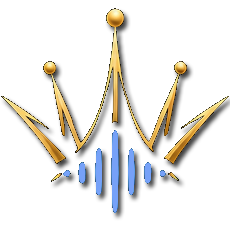
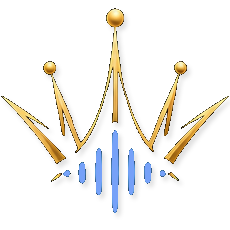
Add files via upload

diff --git a/index.html b/index.html
@@ -79,6 +79,9 @@
             --text: #e0e0e0;
             --text-muted: #888;
             --font-main: 'Inter', -apple-system, BlinkMacSystemFont, sans-serif;
+            /* ширина короны. От неё считается отрицательный отступ до надписи:
+               у картинки 3.91 % прозрачного края снизу, и он пропорционален ширине */
+            --logo-w: min(150px, 34vw);
         }
 
         * { box-sizing: border-box; margin: 0; padding: 0; outline: none; }
@@ -110,8 +113,20 @@
         .app-container {
             width: 100%;
             max-width: 600px;
-            padding: 0.4rem 2rem 0.6rem;
+            /* сверху 40 px: из них 32 съедает сдвиг top, остальное — воздух,
+               чтобы при заполненном экране корона не прилипала к верху окна */
+            padding: 2.5rem 2rem 0.3rem;
             text-align: center;
+            /* колонка во всю высоту экрана: окно волны забирает всё свободное
+               место и больше не «сплюснуто». min-height, а не height — на низких
+               экранах блок растёт по содержимому и страница прокручивается,
+               а не прячет низ волны под подписью */
+            display: flex;
+            flex-direction: column;
+            justify-content: center;
+            justify-content: safe center;
+            min-height: calc(100vh - 4.4rem);
+            min-height: calc(100dvh - 4.4rem);
             /* подъём всей студии над нижней подписью.
                Именно top, а не transform: дробный transform размывает
                1px-рамки (пунктир зоны загрузки), top рисуется по пикселям. */
@@ -120,6 +135,11 @@
             z-index: 1;
             transition: opacity 0.42s ease, transform 0.6s cubic-bezier(.2, .8, .2, 1), filter 0.42s ease;
         }
+
+        /* все блоки студии держат свой размер; свободное место уходит
+           внутрь панели — в окно визуализации (гониометр), а НЕ в нижнюю
+           дорожку с playhead, та остаётся исходной высоты */
+        .app-container > * { flex-shrink: 0; }
 
         /* когда открыт экран благодарности — студия уходит в тень */
         body.grat-open .app-container {
@@ -145,15 +165,19 @@
 
         .brand-logo {
             display: block;
-            width: min(150px, 34vw);   /* ← размер логотипа: первое число — предел в px, второе — доля ширины окна на узких экранах */
+            width: var(--logo-w);      /* ← размер логотипа задан в :root, переменной --logo-w */
             height: auto;
-            margin: 0 auto 0.1rem;   /* зазор до надписи INVOISE */
+            /* корона стоит на месте, надпись чуть ниже: отрицательный отступ
+               съедает прозрачный край картинки (3.91 % высоты) и оставляет
+               маленький видимый зазор до INVOISE */
+            margin: 0 auto calc(1px - 0.0391 * var(--logo-w));
         }
 
         .subtitle {
             color: var(--text-muted);
             font-size: 0.68rem;
-            margin-bottom: 1.45rem;
+            /* зазор до окна ниже: одинаковый на всех трёх экранах */
+            margin-bottom: 2.5rem;
             letter-spacing: 2px;
         }
 
@@ -187,7 +211,7 @@
 
         /* Processor panel */
         .panel {
-            margin-top: 1.35rem;
+            margin-top: 0;              /* зазор задаёт .subtitle — один на все экраны */
             background: var(--surface);
             border: 1px solid var(--border);
             border-radius: 12px;
@@ -195,7 +219,9 @@
             text-align: left;
             display: none;
         }
-        .panel.active { display: block; }
+        /* панель растёт по высоте, чтобы отдать свободное место окну
+           визуализации (гониометру) — именно оно «живёт» при проигрывании */
+        .panel.active { display: flex; flex-direction: column; flex: 1 1 auto; }
 
         .row { margin-bottom: 0.62rem; }
         .row:last-child { margin-bottom: 0; }
@@ -365,6 +391,9 @@
             margin-top: 0.9rem;
             padding-top: 0.8rem;
             border-top: 1px solid var(--border);
+            /* растёт вместе с панелью и отдаёт высоту гониометру */
+            flex: 1 1 auto;
+            min-height: 90px;
         }
 
         .scope-wrap {
@@ -372,7 +401,8 @@
             background: #0d0d0d;
             border: 1px solid #1e1e1e;
             border-radius: 8px;
-            height: 90px;
+            height: auto;
+            min-height: 90px;
             position: relative;
             overflow: hidden;
         }
@@ -480,6 +510,8 @@
         /* Visualizer & Progress */
         .visualizer-container {
             margin-top: 1rem;
+            /* нижняя дорожка: исходный фиксированный размер, не тянется */
+            flex: 0 0 auto;
             height: 86px;
             width: 100%;
             background: radial-gradient(120% 140% at 50% 0%, #16140f 0%, #0b0b0b 60%, #080808 100%);
@@ -686,15 +718,16 @@
         .grat-brand {
             position: relative;
             text-align: center;
-            margin-bottom: 1.45rem;
+            /* тот же зазор до карточки, что и на студии */
+            margin-bottom: 2.5rem;
         }
         /* Шапка благодарности = шапка студии, один в один:
            те же 150 px, тот же зазор до надписи и те же кегли. */
         .grat-logo {
-            width: min(150px, 34vw);
+            width: var(--logo-w);
             height: auto;
             display: block;
-            margin: 0 auto 0.1rem;
+            margin: 0 auto calc(1px - 0.0391 * var(--logo-w));
             opacity: 0;
             transform: translateY(-12px) scale(0.88);
             filter: drop-shadow(0 0 22px rgba(212, 175, 55, 0.3));
@@ -932,28 +965,28 @@
         /* средние экраны (761–840 px — самый частый ноутбук 1366×768):
            логотип крупный, но всё влезает в один экран без скролла */
         @media (min-height: 761px) and (max-height: 879px) {
-            .brand-logo { width: min(132px, 32vw); }
-            .grat-logo { width: min(132px, 32vw); }
-            .subtitle { margin-bottom: 0.95rem; }
-            .panel { margin-top: 0.9rem; }
+            :root { --logo-w: min(128px, 31vw); }
+            .subtitle { margin-bottom: 1.7rem; }
+            .panel { margin-top: 0; }
             .controls { margin-top: 0.9rem; }
             .meters { margin-top: 0.75rem; padding-top: 0.65rem; }
             .visualizer-container { height: 72px; }
-            .app-container { top: -12px; }
+            .app-container { top: -12px; padding-top: 1rem; }
+            .grat-brand { margin-bottom: 1.7rem; }
         }
 
         /* низкие экраны (ноутбуки 720–760 px): поджимаем по вертикали, чтобы всё влезло без скролла */
         @media (max-height: 760px) {
             body { padding: 0.5rem 0 3.1rem; }
-            .app-container { top: -10px; }
-            .brand-logo { width: min(112px, 28vw); margin-bottom: 0.12rem; }
+            .app-container { top: -10px; padding-top: 0.5rem; min-height: calc(100vh - 3.6rem); min-height: calc(100dvh - 3.6rem); }
+            :root { --logo-w: min(112px, 28vw); }
             h1 { font-size: 1.3rem; margin-bottom: 0.1rem; }
-            .subtitle { font-size: 0.62rem; margin-bottom: 1.05rem; }
-            .panel { margin-top: 1rem; padding: 0.7rem 1.15rem 0.75rem; }
+            .subtitle { font-size: 0.62rem; margin-bottom: 1.7rem; }
+            .panel { margin-top: 0; padding: 0.7rem 1.15rem 0.75rem; }
             .row { margin-bottom: 0.48rem; }
             .row-head { margin-bottom: 0.22rem; }
-            .meters { margin-top: 0.65rem; padding-top: 0.6rem; gap: 1rem; }
-            .scope-wrap { height: 72px; }
+            .meters { margin-top: 0.65rem; padding-top: 0.6rem; gap: 1rem; min-height: 72px; }
+            .scope-wrap { min-height: 72px; }
             .controls { margin-top: 0.85rem; }
             .visualizer-container { margin-top: 0.6rem; height: 72px; }
             .status-text { margin-top: 0.3rem; }
@@ -961,28 +994,66 @@
             .grat-card { padding: 1.15rem 1.5rem 1.1rem; }
             .grat-cup { width: 50px; height: 50px; margin-bottom: 0.3rem; }
             .grat-qr { width: 148px; height: 148px; }
-            .grat-brand { margin-bottom: 1.05rem; }
-            .grat-logo { width: min(112px, 28vw); margin-bottom: 0.12rem; }
+            .grat-brand { margin-bottom: 1.7rem; }
             .grat-wordmark { font-size: 1.3rem; margin-bottom: 0.1rem; }
             .grat-tagline { font-size: 0.62rem; }
             .grat-back { margin-top: 1rem; }
         }
 
+        /* Сколько высоты можно отдать гониометру. Панель тянется ровно
+           на свободное место, но не дальше — иначе нижняя дорожка уедет
+           под подпись. */
+        @media (min-width: 600px) and (min-height: 880px) {
+            .panel.active { max-height: calc(100dvh - 499px); }
+        }
+        @media (min-width: 600px) and (min-height: 761px) and (max-height: 879px) {
+            .panel.active { max-height: calc(100dvh - 423px); }
+        }
+        @media (min-width: 600px) and (max-height: 760px) {
+            .panel.active { max-height: calc(100dvh - 393px); }
+        }
+
         /* ============ ТЕЛЕФОНЫ ============
-           Только две правки, обе просили: подпись вплотную к короне
-           и нижняя строка в два ряда. Больше ничего не меняем. */
+           Подпись вплотную к короне и нижняя строка в два ряда.
+           Больше ничего не меняем. */
         @media (max-width: 520px) {
-            /* подпись под логотипом вплотную: отрицательный отступ съедает
-               прозрачный край картинки (3.9 % высоты), корона не режется */
-            .brand-logo { margin-bottom: -0.42rem; }
+            /* зазор до окна ниже — тот же, что на десктопе, только в масштабе экрана */
+            .subtitle { margin-bottom: 1.9rem; }
+            .grat-brand { margin-bottom: 1.9rem; }
 
             /* мельче, чтобы «WAV» осталось во второй строке, а не ушло в третью */
             footer { font-size: 0.6rem; letter-spacing: 0.2px; padding: 0.8rem 0.85rem 0.55rem; }
         }
 
+        /* на телефоне гониометр тоже растёт, но только если реально есть место */
+        @media (max-width: 520px) and (min-height: 820px) {
+            .panel.active { max-height: calc(100dvh - 469px); }
+        }
+        @media (max-width: 520px) and (min-height: 761px) and (max-height: 819px) {
+            .panel.active { max-height: calc(100dvh - 450px); }
+        }
+        /* низкие телефоны: места нет — гониометр остаётся исходной высоты */
+        @media (max-width: 520px) and (max-height: 760px) {
+            .panel.active { flex: 0 0 auto; }
+            .scope-wrap { flex: 0 0 auto; height: 72px; min-height: 72px; }
+        }
+
         /* совсем узкие телефоны (320 px): ещё на шаг мельче */
         @media (max-width: 340px) {
             footer { font-size: 0.54rem; letter-spacing: 0.1px; padding: 0.7rem 0.6rem 0.5rem; }
+        }
+
+        /* телефоны средней высоты (761–810 px): кнопки тут занимают два ряда,
+           поэтому чуть уменьшаем корону, чтобы волна не заезжала под подпись */
+        @media (max-width: 520px) and (min-height: 761px) and (max-height: 810px) {
+            :root { --logo-w: min(112px, 28vw); }
+            .app-container { padding-top: 0.4rem; }
+        }
+
+        /* низкие телефоны (iPhone SE и подобные): корона на шаг меньше,
+           чтобы страница не прокручивалась */
+        @media (max-width: 520px) and (max-height: 680px) {
+            :root { --logo-w: min(96px, 26vw); }
         }
     </style>
 </head>
@@ -2113,7 +2184,10 @@ function drawScopeFromSamples(L, R, n) {
     const rect = scopeCanvas.getBoundingClientRect();
     if (!rect.width) return;
 
-    if (scopeCanvas.width !== Math.round(rect.width * dpr)) {
+    /* высота окна теперь меняется (гониометр тянется на свободное место),
+       поэтому проверяем оба измерения, иначе картинка растягивается */
+    if (scopeCanvas.width !== Math.round(rect.width * dpr) ||
+        scopeCanvas.height !== Math.round(rect.height * dpr)) {
         scopeCanvas.width = rect.width * dpr;
         scopeCanvas.height = rect.height * dpr;
     }
